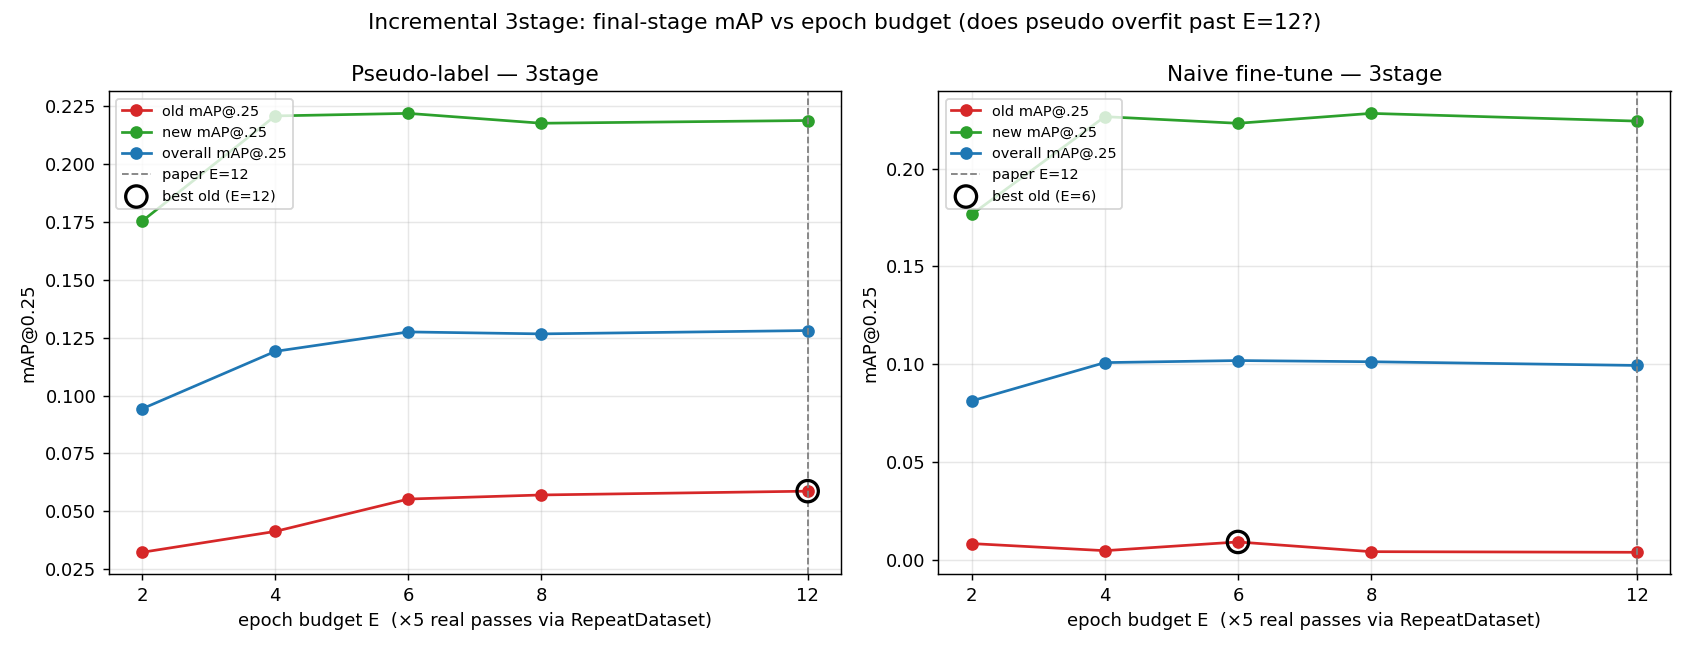
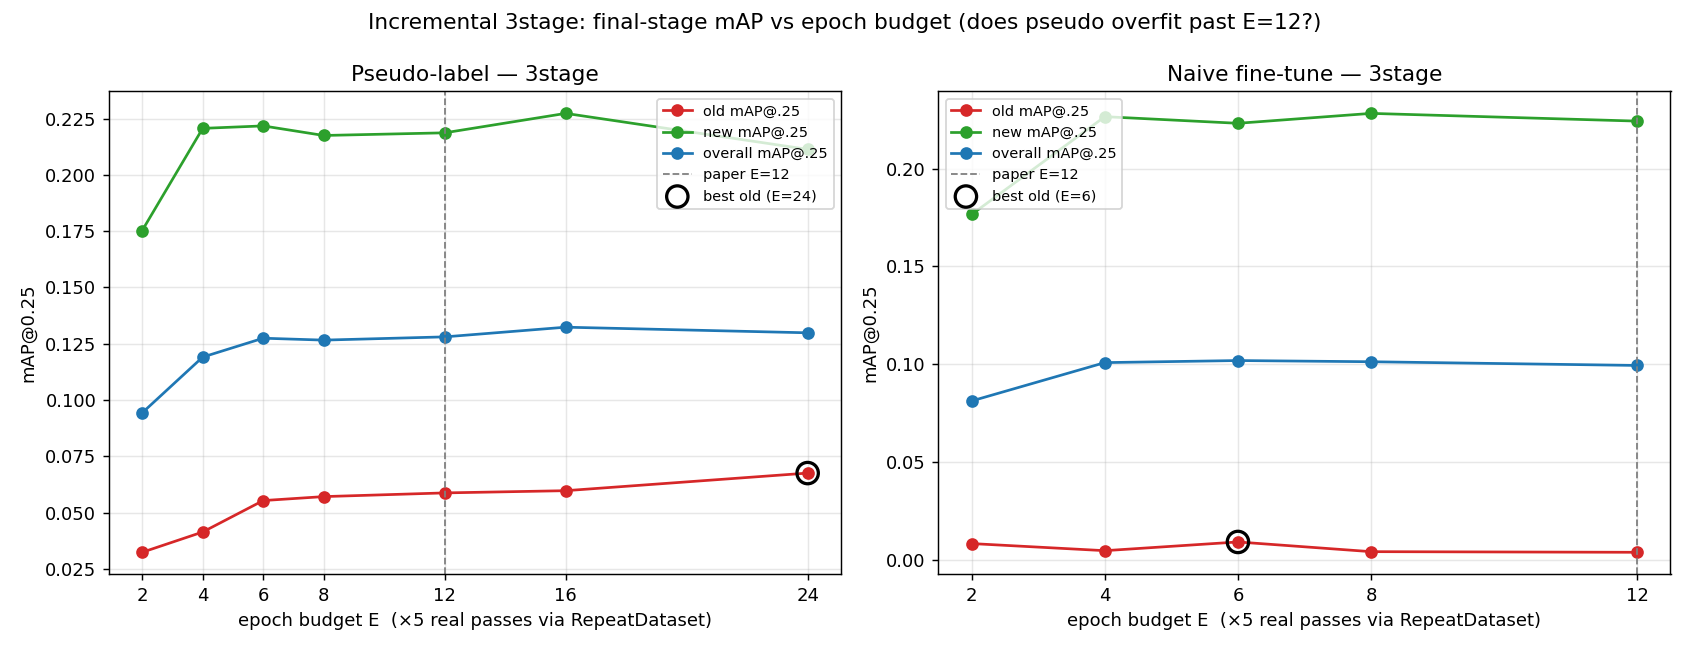
Finalize optimal-epoch study: extend pseudo sweep to E=24
Pseudo old-class mAP keeps rising past the paper E=12 budget all the way
to E=24 (old@.25 0.0587 -> 0.0675, +15%; old@.50 +32%) with no overfit
turnover, confirming the early-stop hypothesis is wrong for pseudo. New
classes peak at E=16, so overall@.25 peaks at E=16 (best balanced) while
E=24 maximizes old-class retention; E=12 stays a sound default. The swing
is small either way -- epoch budget is a weak lever.

- INCREMENTAL_RESULTS.md / RESULTS.md / epoch_study: add E=16,24 rows,
  update conclusions, drop the "extension in progress" caveats
- epoch_sweep_3stage.png + EPOCH_STUDY_REPORT.txt regenerated to E=24
- E=36 chain launched but cut for time (only stage1 done, no final point)

diff --git a/07_incremental_learning_experiments/results/INCREMENTAL_RESULTS.md b/07_incremental_learning_experiments/results/INCREMENTAL_RESULTS.md
@@ -262,7 +262,8 @@ schedule-length / degenerate-stage5 problem, not a variant problem.
    optimal-epoch question (can `<12` epochs retain old classes better?) is now
    answered — see **"Optimal-epoch study"** below. Short version: early-stopping
    is the *wrong* lever. It buys a negligible bump for naive and actively *hurts*
-   pseudo, which wants the full 12 epochs.
+   pseudo, whose old-class mAP rises monotonically through E=24 (the sweep was
+   extended past 12 to confirm there is no overfit turnover).
 
 ## Optimal-epoch study (3-stage)
 
@@ -270,10 +271,13 @@ schedule-length / degenerate-stage5 problem, not a variant problem.
 Catastrophic forgetting is usually *worsened* by longer fine-tuning on the new
 task, so the hypothesis was: **stop early (`<12` epochs) to retain old classes
 better.** This study sweeps the per-stage epoch budget `E ∈ {2,4,6,8,12}` for both
-variants on the 3-stage chain and reports the final-stage (stage3) cumulative-val
-mAP, broken into old (17 classes seen before the final stage) vs new (13 final-stage
-classes). Run overnight 2026-06-11, fully unattended; raw report at
-`tr3d/logs/EPOCH_STUDY_REPORT.txt`.
+variants on the 3-stage chain, then — because pseudo old-class mAP was still climbing
+at the paper budget E=12 — **extends the pseudo sweep to `E ∈ {16, 24}`** to look for
+the plateau/overfit point. It reports the final-stage (stage3) cumulative-val mAP,
+broken into old (17 classes seen before the final stage) vs new (13 final-stage
+classes). Run 2026-06-11, fully unattended; raw report at
+`results/epoch_study/EPOCH_STUDY_REPORT.txt`. (A further E=36 chain was launched but
+cut for time — only its stage1 finished, so it contributes no final-stage point.)
 
 ### How the sweep was run (mechanics)
 
@@ -321,11 +325,24 @@ old classes in the naive variant.**
 | 4  | 0.0413  | 0.2207  | 0.1191  | 0.0190  | 0.0551  | 0.562 |
 | 6  | 0.0553  | 0.2218  | 0.1274  | 0.0259  | 0.0626  | 0.600 |
 | 8  | 0.0571  | 0.2175  | 0.1266  | 0.0253  | 0.0593  | 0.595 |
-| 12 | **0.0587** | 0.2187 | **0.1280** | **0.0260** | 0.0601 | 0.527 |
+| 12 | 0.0587  | 0.2187  | 0.1280  | 0.0260  | 0.0601  | 0.527 |
+| 16 | 0.0597  | 0.2273  | **0.1323** | 0.0295 | 0.0671 | 0.541 |
+| 24 | **0.0675** | 0.2113 | 0.1298 | **0.0342** | **0.0680** | 0.535 |
 
-Old-class @.25 rises **monotonically** with epochs (0.032 → 0.059, ~1.8×); overall
-and old@.50 likewise peak at E=12. New-class @.25 plateaus by E≈4. **More epochs is
-strictly better for pseudo — the opposite of the hypothesis.**
+Old-class @.25 keeps rising past the paper budget — **monotonically all the way to
+E=24** (0.032 → 0.059 @ E=12 → **0.0675 @ E=24**, ~2.1× the E=2 level and +15% over
+E=12); old@.50 climbs even faster (0.0260 @ E=12 → 0.0342 @ E=24, +32%). There is **no
+overfit turnover in old-class retention through E=24** — the very effect the
+hypothesis predicted (longer training erodes old classes) never appears for pseudo.
+
+The one cost shows up on the **new** classes: new@.25 peaks at E=16 (0.2273) and then
+slips at E=24 (0.2113), so **overall** @.25 peaks at **E=16 (0.1323)** and dips
+slightly by E=24. So the budgets split by what you optimize for: **E=16** is the best
+*balanced* point (best overall, old already ≥ E=12), while **E=24** maximizes
+*old-class retention* at a few points of new-class cost. The E=36 chain was meant to
+find where old finally turns over, but was cut for time. **Either way the swing is
+small (tenths of a point of mAP) — epoch budget remains a weak lever, and nothing
+below E=12 is ever justified for pseudo.**
 
 ### Scout: per-stage forgetting curves (naive, prior fixed at its real 12-ep value)
 
@@ -355,13 +372,18 @@ scene, so each epoch optimizes a **joint old + new objective** (rehearsal-by-
 distillation), not a new-only objective. With old classes explicitly supervised in
 every gradient step, extra epochs don't erode them — they *converge* the joint fit.
 So pseudo behaves like ordinary training where more epochs → better fit on both
-heads (until the new-class head plateaus ~E4 and old-class retention keeps climbing
-to E12). The forgetting pressure that makes early-stopping attractive is exactly
-what the pseudo-labels neutralize.
+heads: the new-class head plateaus by ~E4 (and gently over-fits the real novel GT by
+E24), while old-class retention keeps converging the joint fit all the way to E24. The
+forgetting pressure that makes early-stopping attractive is exactly what the
+pseudo-labels neutralize — extending the sweep to E∈{16,24} only confirmed it, with
+old-class mAP still rising and no overfit turnover.
 
-**Bottom line:** the epoch budget is the wrong lever for forgetting. Keep **E=12**.
-The real lever is the pseudo-label rehearsal — and it wants the full schedule, not a
-truncated one.
+**Bottom line:** the epoch budget is the wrong lever for *forgetting*. Nothing below
+E=12 is ever justified for pseudo. **E=12 (the paper default) stays a sound choice**;
+if you specifically want to squeeze more old-class retention, E=16 (best balanced) or
+E=24 (best old-class) help by a few tenths of a point at a small new-class cost — a
+minor knob, not the real lever. The real lever is the pseudo-label rehearsal itself,
+and it wants the full schedule, not a truncated one.
 
 ## Fully-supervised (joint) upper bound
 

diff --git a/07_incremental_learning_experiments/results/epoch_study/README.md b/07_incremental_learning_experiments/results/epoch_study/README.md
@@ -3,21 +3,24 @@
 Does incremental fine-tuning train *too long*? The TR3D paper schedule is 12 epochs; the worry was that on
 novel-only data the model overfits the new classes and forgets old ones, so a shorter budget might retain
 more. This study sweeps epoch budgets E∈{2,4,6,8,12} for both the naive and pseudo variants on the 3-stage
-schedule, plus per-stage per-epoch scout traces.
+schedule — and, because pseudo old-class mAP was still climbing at E=12, **extends the pseudo sweep to
+E∈{16,24}** — plus per-stage per-epoch scout traces.
 
 - **`EPOCH_STUDY_REPORT.txt`** — the full numbers: final-stage old/new/overall mAP@0.25 & @0.50 per budget
-  for naive and pseudo, plus the per-stage per-epoch curves.
-- **`epoch_sweep_3stage.png`** — old/new/overall mAP@0.25 vs epoch budget for both variants.
+  for naive and pseudo (pseudo through E=24), plus the per-stage per-epoch curves.
+- **`epoch_sweep_3stage.png`** — old/new/overall mAP@0.25 vs epoch budget for both variants (pseudo to E=24).
 
 **Conclusion: keep E=12 — epoch budget is the wrong lever for forgetting.** Naive old-class retention is
-flat-near-zero and noisy across all E. Pseudo old-class mAP *rises monotonically* with epochs
-(E2 0.032 → E12 0.059): pseudo injects teacher old-class labels into every stage, so each epoch optimizes a
-joint old+new objective (rehearsal-by-distillation) rather than novel-only — there is no forgetting pressure
-to stop early for.
+flat-near-zero and noisy across all E. Pseudo old-class mAP *rises monotonically* with epochs and **keeps
+rising past 12** (E2 0.032 → E12 0.059 → E24 0.0675, +15% over E12, with no overfit turnover through E=24):
+pseudo injects teacher old-class labels into every stage, so each epoch optimizes a joint old+new objective
+(rehearsal-by-distillation) rather than novel-only — there is no forgetting pressure to stop early for. The
+only cost of longer training is on new classes (new@.25 dips after E16): so E12 stays the sound default, E16
+is the best *balanced* budget, and E24 maximizes *old-class* retention — all minor knobs.
 
-> **Extension in progress.** Because pseudo was still climbing at E=12, a sweep to E∈{16,24,36} is running to
-> locate the plateau/overfit point. The report and curve here cover E≤12; the extended results will replace
-> them in a later update. (The PNG here is the E≤12 preview.)
+> An E=36 chain was launched to locate the eventual old-class turnover but was cut for time — only its stage1
+> completed, so it contributes no final-stage point. The report and curve here cover the naive sweep (E≤12)
+> and the pseudo sweep through E=24.
 
 Reproduce: `bash ../../step_c_tools/epoch_study/run_epoch_study_all.sh` then
 `python ../../step_c_tools/epoch_study/analyze_epoch_sweep.py --sched 3stage`.

diff --git a/07_incremental_learning_experiments/results/RESULTS.md b/07_incremental_learning_experiments/results/RESULTS.md
@@ -115,19 +115,19 @@ was retrained — the 6-stage teachers are too degraded for a threshold to help.
 ### 3. Optimal-epoch study (3-stage)
 
 Tests the hypothesis that incremental stages train *too long* (the TR3D paper's 12 epochs) and overfit the
-novel-only data at the expense of old-class retention. A full sweep over epoch budgets E∈{2,4,6,8,12} for
-both naive and pseudo, plus per-stage per-epoch scout traces. Tools under `step_c_tools/epoch_study/`; report
-+ curve in `results/epoch_study/`.
+novel-only data at the expense of old-class retention. A sweep over epoch budgets E∈{2,4,6,8,12} for both
+naive and pseudo, **extended to E∈{16,24} for pseudo** (because old-class mAP was still climbing at 12),
+plus per-stage per-epoch scout traces. Tools under `step_c_tools/epoch_study/`; report + curve in
+`results/epoch_study/`.
 
 **Conclusion: epoch budget is the wrong lever — keep E=12.** Naive old-class retention is flat-near-zero and
-noisy across all E (early-stop buys ~nothing). Pseudo old-class mAP rises *monotonically* with epochs
-(E2 0.032 → E12 0.059), because pseudo injects teacher old-class labels into every stage, so each epoch
-optimizes a joint old+new objective (rehearsal-by-distillation) rather than novel-only — there is no
-forgetting pressure to stop early for.
-
-> *Extension in progress (not in this snapshot):* because pseudo was still climbing at E=12, a sweep to
-> E∈{16,24,36} is running to locate the plateau/overfit point. Results and the final
-> `epoch_sweep_3stage.png` curve will land in a later update.
+noisy across all E (early-stop buys ~nothing). Pseudo old-class mAP rises *monotonically* with epochs and
+**keeps rising past 12** (E2 0.032 → E12 0.059 → E24 0.0675, +15% over E12, no overfit turnover), because
+pseudo injects teacher old-class labels into every stage, so each epoch optimizes a joint old+new objective
+(rehearsal-by-distillation) rather than novel-only — there is no forgetting pressure to stop early for. The
+only cost of more epochs is on new classes (new@.25 dips after E16), so **E12 stays the sound default**;
+E16 is the best balanced point and E24 maximizes old-class retention, both minor knobs. (An E=36 chain was
+launched to find the old-class turnover but cut for time — only its stage1 completed.)
 
 ---
 
